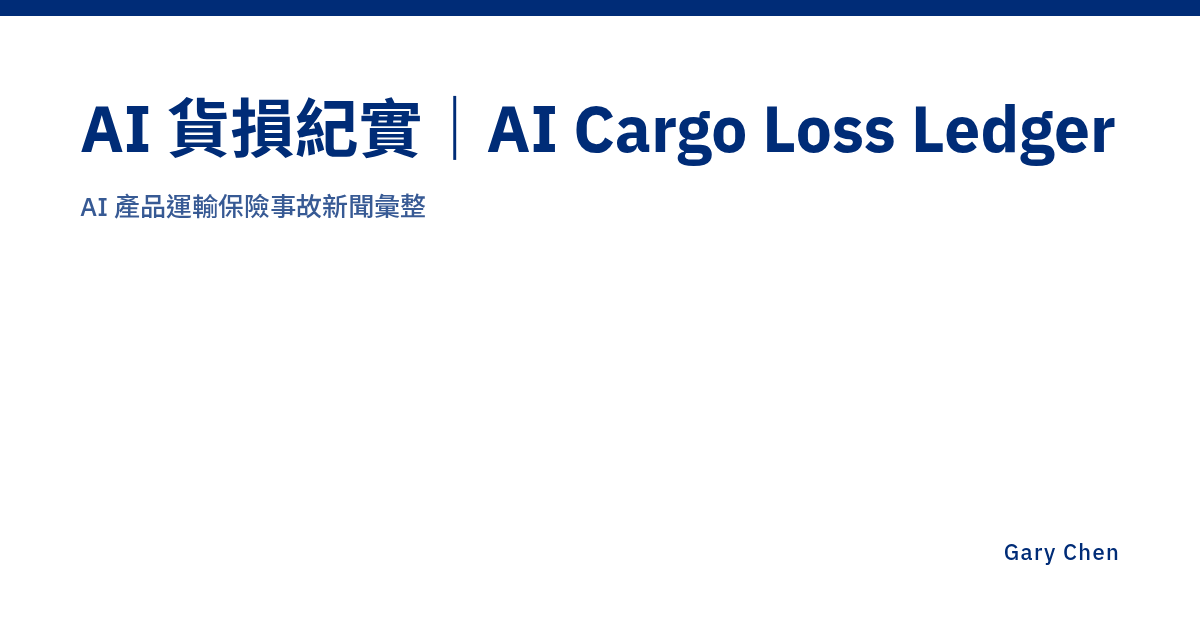
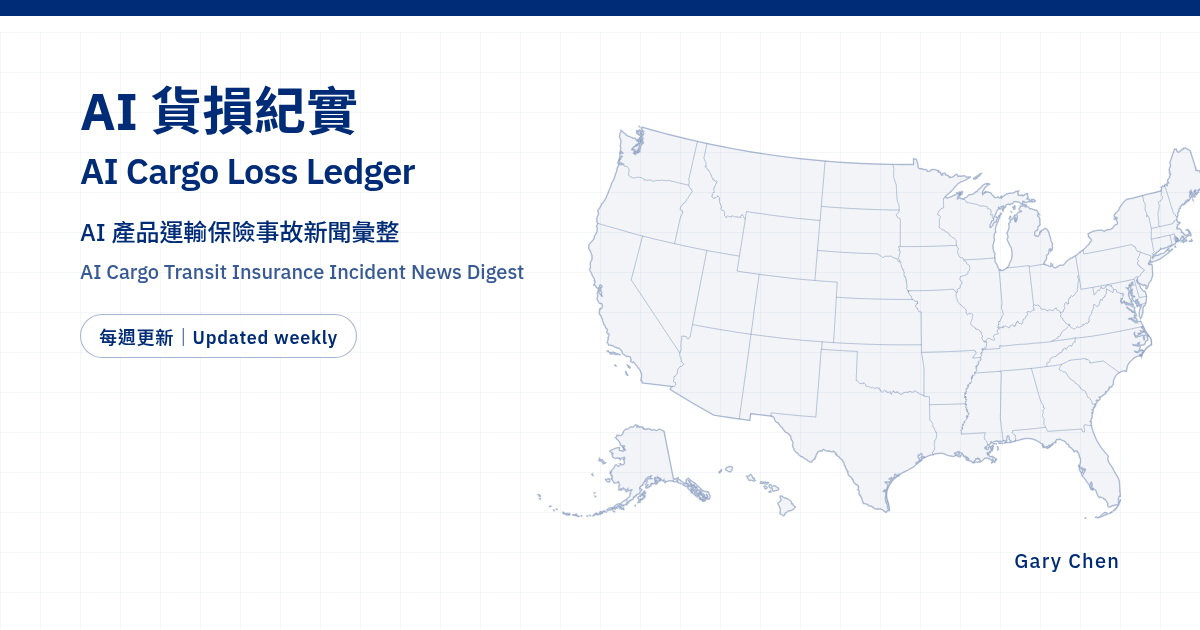
Collapse mobile filters into a toggle and enrich the share image.

diff --git a/app.js b/app.js
@@ -94,6 +94,7 @@
       filterSearchPh: "搜尋 GPU、Reno、晶片…",
       filterShown: (n) => `目前 ${n} 則`,
       filterReset: "重設",
+      filterToggle: "篩選",
       filterAllStates: "全部州別（含未標示）",
       filterUnmapped: "未標示或非美國",
       filterAllMonths: "全部月份",
@@ -194,6 +195,7 @@
       filterSearch: "Keyword",
       filterSearchPh: "Search GPU, Reno, chips...",
       filterShown: (n) => `${n} shown`,
+      filterToggle: "Filter",
       filterReset: "Reset",
       filterAllStates: "All states (including unmapped)",
       filterUnmapped: "Unmapped or outside the US",
@@ -612,6 +614,16 @@
     return `${name} ${code}`;
   }
 
+  // Mobile only: whether the collapsed filter panel is expanded. Desktop CSS ignores it.
+  let filterOpen = false;
+
+  function setFilterOpen(open) {
+    filterOpen = open;
+    const host = byId("filter-bar");
+    if (host) host.classList.toggle("is-open", open);
+    if (fbar && fbar.toggle) fbar.toggle.setAttribute("aria-expanded", open ? "true" : "false");
+  }
+
   function buildFilterBar() {
     const host = byId("filter-bar");
     if (!host) return;
@@ -718,8 +730,29 @@
       actions,
     );
 
-    host.append(typeRow, controls);
-    Object.assign(fbar, { stateSelect, monthSelect, input, count, reset });
+    const body = document.createElement("div");
+    body.className = "filter-body";
+    body.id = "filter-body";
+    body.append(typeRow, controls);
+
+    // Mobile toolbar: toggle plus a Reset that stays reachable while collapsed.
+    const toggle = document.createElement("button");
+    toggle.type = "button";
+    toggle.className = "filter-toggle";
+    toggle.setAttribute("aria-controls", "filter-body");
+    toggle.addEventListener("click", () => setFilterOpen(!filterOpen));
+    const miniReset = document.createElement("button");
+    miniReset.type = "button";
+    miniReset.className = "filter-reset filter-reset-mini";
+    miniReset.textContent = L.filterReset;
+    miniReset.addEventListener("click", resetFilters);
+    const toolbar = document.createElement("div");
+    toolbar.className = "filter-toolbar";
+    toolbar.append(toggle, miniReset);
+
+    host.append(toolbar, body);
+    Object.assign(fbar, { stateSelect, monthSelect, input, count, reset, toggle, miniReset });
+    setFilterOpen(filterOpen);
   }
 
   // Updates the built controls in place so focus and a half typed keyword survive.
@@ -756,6 +789,11 @@
     if (fbar.input.value.trim() !== filters.q) fbar.input.value = filters.q;
     fbar.count.textContent = L.filterShown(filteredIncidentList().length);
     fbar.reset.disabled = !filtersActive();
+    const active = filtersActive();
+    fbar.toggle.textContent = active
+      ? `${L.filterToggle} · ${L.filterShown(filteredIncidentList().length)}`
+      : L.filterToggle;
+    fbar.miniReset.hidden = !active;
   }
 
   // ---- renderers ------------------------------------------------------------

diff --git a/styles.css b/styles.css
@@ -1230,9 +1230,39 @@ th:last-child { border-radius: 0 12px 0 0; }
   .filter-actions { justify-content: space-between; }
 }
 
+/* Mobile toolbar is hidden on desktop; the full bar always shows there. */
+.filter-toolbar { display: none; }
+.filter-body { display: grid; gap: 16px; min-width: 0; }
+
 @media (max-width: 640px) {
   .filter-bar { gap: 16px; }
   .filter-controls { grid-template-columns: minmax(0, 1fr); }
+  .filter-toolbar {
+    display: flex;
+    align-items: center;
+    gap: 8px;
+    min-width: 0;
+  }
+  .filter-toggle {
+    flex: 1 1 auto;
+    min-width: 0;
+    min-height: 44px;
+    padding: 8px 16px;
+    border: 1px solid #CBD5E1;
+    border-radius: 12px;
+    background: #fff;
+    color: var(--ink);
+    font: inherit;
+    font-size: 1rem;
+    font-weight: 600;
+    text-align: left;
+    cursor: pointer;
+    overflow-wrap: anywhere;
+  }
+  .filter-toggle[aria-expanded="true"] { border-color: var(--bright); }
+  .filter-reset-mini { flex: 0 0 auto; }
+  .filter-reset-mini[hidden] { display: none; }
+  .filter-bar:not(.is-open) .filter-body { display: none; }
 }
 
 @media (prefers-reduced-motion: reduce) {
